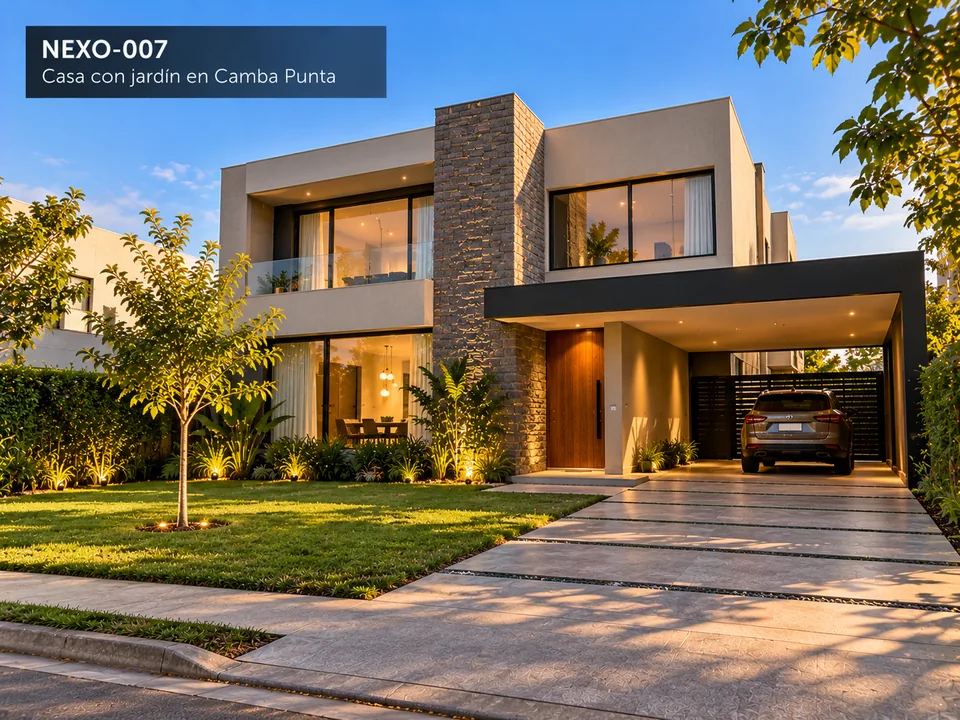
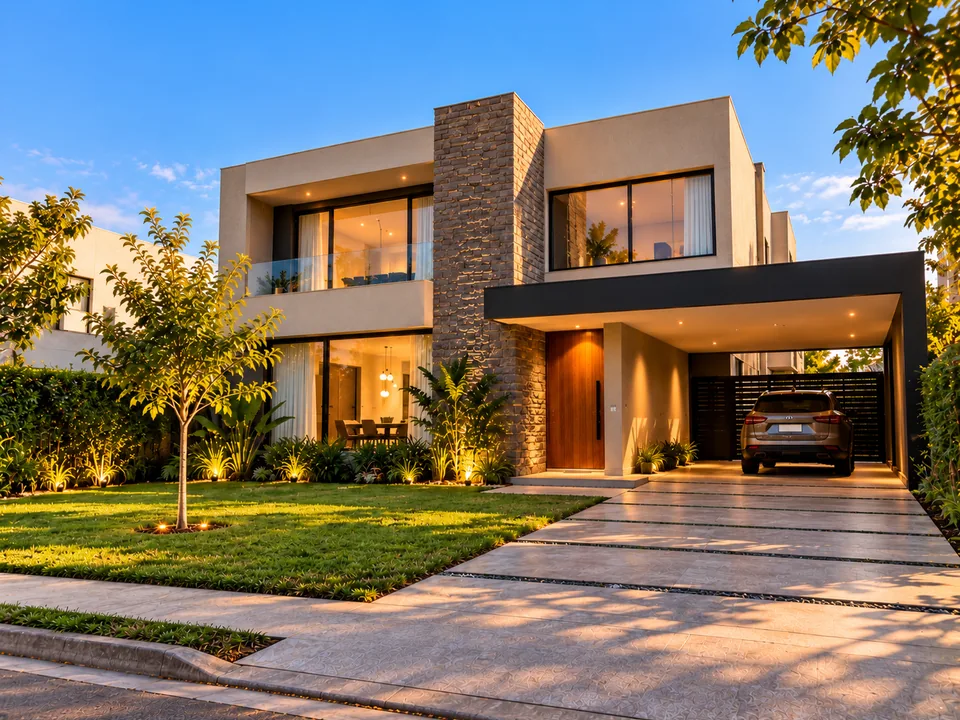
fix: finalize property images V3B

diff --git a/docs/RECURSOS.md b/docs/RECURSOS.md
@@ -83,3 +83,9 @@ Recortes aplicados únicamente a derivados: `nexo-005`, 150 px superiores de cie
 Los carteles de `nexo-007`, `nexo-008`, `nexo-011` y `nexo-012` permanecen: retirarlos por recorte comprometería el encuadre de vegetación/arquitectura. Requieren una versión limpia o edición externa antes de considerar cerrada la revisión visual. No se hizo reconstrucción de contenido ni retoque generativo.
 
 Las tarjetas conservan el espacio uniforme 4:3 pero usan `object-fit: contain`: muestran el encuadre completo, con bandas discretas cuando el recurso tiene otra proporción. Esto preserva el original 3:2 de nexo-005 antes del recorte y las proporciones reales de los derivados. Inicio y catálogo muestran avisos de propiedad ficticia e imagen ilustrativa generada con IA.
+
+### Cierre de corrección de carteles V3B
+
+Se recibieron los cuatro originales corregidos mediante `72fb7c0`. Se verificó visualmente que nexo-007, nexo-008, nexo-011 y nexo-012 ya no contienen carteles. Los archivos 011 y 012 llegaron como `NEXO-011.png` y `NEXO-012.png`: sustituyen las copias antiguas con nombres uniformes en minúsculas.
+
+Se regeneraron únicamente sus 16 derivados, WebP y JPEG en 480 × 360 y 960 × 720 px. Se mantuvieron las calidades anteriores (82 WebP y 84 JPEG), sin nuevos retoques ni recortes de contenido significativo; solo se ajusta la diferencia mínima de proporción de los nuevos originales al 4:3. Las otras ocho propiedades, sus imágenes, el JSON y la lógica de búsqueda permanecen intactos. La observación histórica sobre los cuatro carteles pendientes queda resuelta.

diff --git a/README.md b/README.md
@@ -82,4 +82,4 @@ Soporte responsive preparado sin fotografías nuevas. Ver [contrato de imágenes
 
 ## V3B — recursos incorporados, pendientes de revisión
 
-Las doce imágenes de propiedades aportadas por el usuario están asociadas a sus identificadores; las seis destacadas utilizan las mismas referencias. Se sirven versiones WebP/JPEG optimizadas, sin cargar los PNG originales. Son ilustraciones generadas con IA de inmuebles ficticios. Persisten carteles en nexo-007, nexo-008, nexo-011 y nexo-012; los recortes y metadatos se detallan en `docs/RECURSOS.md`.
+Las doce imágenes de propiedades aportadas por el usuario están asociadas a sus identificadores; las seis destacadas utilizan las mismas referencias. Se sirven versiones WebP/JPEG optimizadas, sin cargar los PNG originales. Son ilustraciones generadas con IA de inmuebles ficticios. Las versiones corregidas de nexo-007, nexo-008, nexo-011 y nexo-012 ya se incorporaron y sus derivados se regeneraron sin carteles; los recortes y metadatos se detallan en `docs/RECURSOS.md`.
